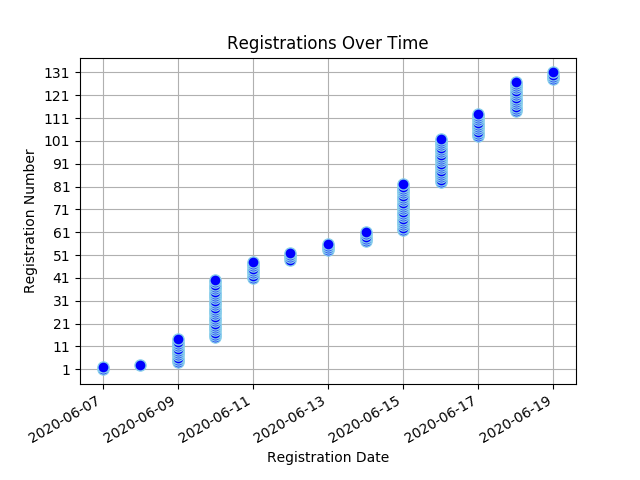
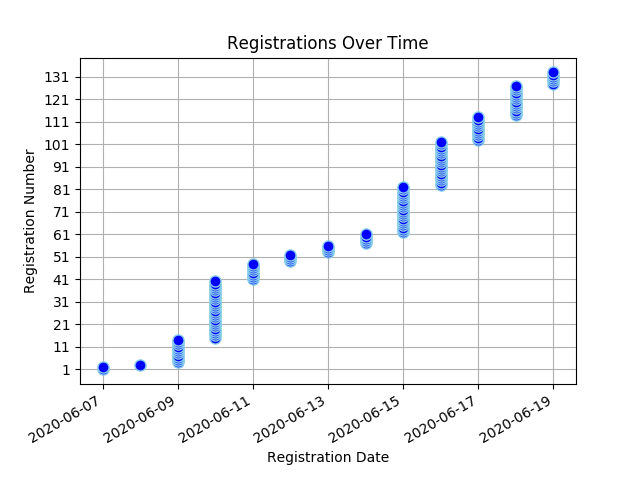
Registree stats backup on Fri Jun 19 11:26:51 SAST 2020

Changed region(s): [[0.0625, 0.125, 0.9062, 0.75]]

diff --git a/content/virtual_conf_stats/_index.md b/content/virtual_conf_stats/_index.md
@@ -16,7 +16,7 @@ draft: false
 </head>
 <body>
 <h1 style="color: #000000;">Virtual Convention Registration Stats</h1>
-<ul><li><strong>Number of Registrees</strong>: 131</li>
+<ul><li><strong>Number of Registrees</strong>: 133</li>
 </ul><a href="/docs/virtual_convention_stats.csv">Download registration details here</a>
 <h2>Registrees</h2>
 <table id="registreeTable" class="tablesorter" border="1" padding=1>
@@ -43,6 +43,7 @@ Club
 <tr><td>Chazen, Lionel</td><td>Edenvale</td></tr>
 <tr><td>Cottle, Sharon</td><td>Groote Schuur</td></tr>
 <tr><td>Daniel, Peter</td><td>Gordon's Bay</td></tr>
+<tr><td>du Plooy, Marc</td><td>alberton</td></tr>
 <tr><td>Easton, Denise</td><td>Roodepoort Clearwater Cyber Lions Club</td></tr>
 <tr><td>Esdaile, Michael</td><td>Manzini</td></tr>
 <tr><td>Ewers, Aidan</td><td>Newlands</td></tr>
@@ -52,6 +53,7 @@ Club
 <tr><td>Gabriel, Anastasia</td><td>Vereeniging</td></tr>
 <tr><td>Gabriel, Mervyn</td><td>Vereeniging</td></tr>
 <tr><td>Gerhard, Bernd</td><td>Wilro Park</td></tr>
+<tr><td>Gerhard, Shirley</td><td>Wilro Park</td></tr>
 <tr><td>Govender, Siva</td><td>East Coast Lions</td></tr>
 <tr><td>graham, mike</td><td>Nelspruit</td></tr>
 <tr><td>Graham, Valerie</td><td>Nelspruit</td></tr>
